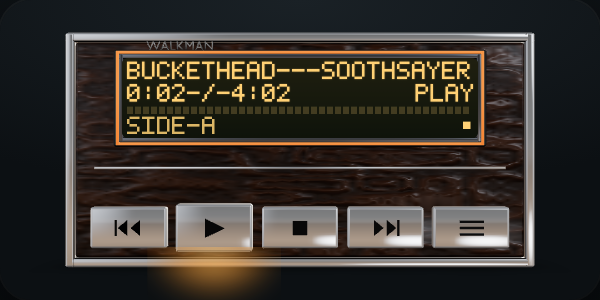
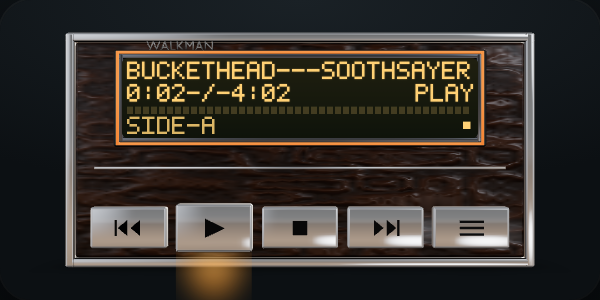
docs: walkman v2.1 — light anchored to the 3D key seam
- A2c: explain why a CSS-box-anchored glow always lands on the key face
  (perspective projects the extruded key larger than its footprint) and how the
  zero-size seam hotspot fixes it; measured anchor 373.3 vs key bottom 373.0,
  zero changed rows above it
- artifacts 24/26 recaptured

Changed region(s): [[0.24, 0.81, 0.48, 1.0]]

diff --git a/documentation/index.html b/documentation/index.html
@@ -258,13 +258,13 @@ figcaption{margin-top:.8rem;font-size:.82rem;color:var(--ink-soft);text-align:ce
       <h1>Documentation</h1>
       <p class="sub"></p>
     </div>
-    <span class="stamp"><span class="freshness lede" data-ts="2026-10-31T03:20:36.196877+00:00"></span>generated 2026-10-31 03:21 UTC · do not edit by hand</span>
+    <span class="stamp"><span class="freshness lede" data-ts="2026-10-31T04:10:51.637572+00:00"></span>generated 2026-10-31 04:11 UTC · do not edit by hand</span>
   </div>
 </header>
 <div class="shell">
   <nav class="toc" aria-label="Contents">
     <h2>Contents</h2>
-    <ol><li class="part" title="How the documentation is organised, what each area holds, and the rules that stop it becoming a pile.">Start Here</li><li><a class="chapter" href="#reading-guide"><span class="num">1</span><span class="title-text">How this documentation is organised</span><span class="status s-ok">verified</span><span class="freshness badge" data-ts="2026-10-23T17:52:15-07:00"></span></a></li><li><a class="sub" href="#the-areas">The areas</a></li><li><a class="sub" href="#page-types-type-in-front-matter">Page types (type: in front matter)</a></li><li><a class="sub" href="#status-words">Status words</a></li><li><a class="sub" href="#rules-that-stop-the-pile">Rules that stop the pile</a></li><li><a class="sub" href="#known-gaps">Known gaps</a></li><li class="part" title="The canvas mini player, its hand-off to music-player, ratings sync, and playback health.">Music player</li><li><a class="chapter" href="#music-swap-live-news-and-news-summaries"><span class="num">2</span><span class="title-text">Music Swap, Song Thumbs, Live News Networks and News Summaries</span><span class="status s-ok">shipped</span><span class="freshness badge" data-ts="2026-10-26T06:19:39-07:00"></span></a></li><li><a class="sub" href="#1-a-new-music-ask-cut-the-music-to-silence-f0bc09f">1. A new music ask cut the music to silence (f0bc09f)</a></li><li><a class="sub" href="#2-thumbs-up-rated-the-artist-not-the-song-4a69f7c">2. Thumbs up rated the artist, not the song (4a69f7c)</a></li><li><a class="sub" href="#3-cnn-live-news-fox-live-news-put-on-fox-news-83e923c-5013a4d">3. &quot;cnn live news&quot; / &quot;fox live news&quot; / &quot;put on fox news&quot; (83e923c, 5013a4d)</a></li><li><a class="sub" href="#4-news-summaries-none-or-only-one-link">4. News summaries: none, or only one link</a></li><li><a class="sub" href="#watchlist">Watchlist</a></li><li><a class="sub" href="#agent-routing-2026-10-16-cleanup">Agent routing (2026-10-16 cleanup)</a></li><li><a class="chapter" href="#music-widget-compact-bento-designs"><span class="num">3</span><span class="title-text">Music widget: compact bento layouts</span><span class="status s-warn">in-progress</span><span class="freshness badge" data-ts="2026-10-31T03:20:36.196877+00:00"></span></a></li><li><a class="sub" href="#the-redundancy">The redundancy</a></li><li><a class="sub" href="#the-compaction-rules">The compaction rules</a></li><li><a class="sub" href="#five-directions">Five directions</a></li><li><a class="sub" href="#half-width-retro-set-300px">Half-width retro set (300px)</a></li><li><a class="sub" href="#side-by-side">Side by side</a></li><li><a class="sub" href="#recommendation">Recommendation</a></li><li><a class="sub" href="#what-would-change-in-code">What would change in code</a></li><li><a class="sub" href="#verification-of-the-mockups">Verification of the mockups</a></li><li><a class="sub" href="#open-questions">Open questions</a></li><li class="part" title="Test-suite health, dependency refreshes, deploy notes.">Ops and quality</li><li><a class="chapter" href="#dependency-security-refresh"><span class="num">4</span><span class="title-text">Dependency security refresh (Python pins)</span><span class="status s-ok">shipped</span><span class="freshness badge" data-ts="2026-10-23T17:52:15-07:00"></span></a></li><li><a class="sub" href="#what-changed">What changed</a></li><li><a class="sub" href="#verification">Verification</a></li><li><a class="sub" href="#resolved-tickets">Resolved tickets</a></li><li><a class="sub" href="#follow-up-venv-was-tracked-in-git">Follow-up: .venv was tracked in git</a></li></ol>
+    <ol><li class="part" title="How the documentation is organised, what each area holds, and the rules that stop it becoming a pile.">Start Here</li><li><a class="chapter" href="#reading-guide"><span class="num">1</span><span class="title-text">How this documentation is organised</span><span class="status s-ok">verified</span><span class="freshness badge" data-ts="2026-10-23T17:52:15-07:00"></span></a></li><li><a class="sub" href="#the-areas">The areas</a></li><li><a class="sub" href="#page-types-type-in-front-matter">Page types (type: in front matter)</a></li><li><a class="sub" href="#status-words">Status words</a></li><li><a class="sub" href="#rules-that-stop-the-pile">Rules that stop the pile</a></li><li><a class="sub" href="#known-gaps">Known gaps</a></li><li class="part" title="The canvas mini player, its hand-off to music-player, ratings sync, and playback health.">Music player</li><li><a class="chapter" href="#music-swap-live-news-and-news-summaries"><span class="num">2</span><span class="title-text">Music Swap, Song Thumbs, Live News Networks and News Summaries</span><span class="status s-ok">shipped</span><span class="freshness badge" data-ts="2026-10-26T06:19:39-07:00"></span></a></li><li><a class="sub" href="#1-a-new-music-ask-cut-the-music-to-silence-f0bc09f">1. A new music ask cut the music to silence (f0bc09f)</a></li><li><a class="sub" href="#2-thumbs-up-rated-the-artist-not-the-song-4a69f7c">2. Thumbs up rated the artist, not the song (4a69f7c)</a></li><li><a class="sub" href="#3-cnn-live-news-fox-live-news-put-on-fox-news-83e923c-5013a4d">3. &quot;cnn live news&quot; / &quot;fox live news&quot; / &quot;put on fox news&quot; (83e923c, 5013a4d)</a></li><li><a class="sub" href="#4-news-summaries-none-or-only-one-link">4. News summaries: none, or only one link</a></li><li><a class="sub" href="#watchlist">Watchlist</a></li><li><a class="sub" href="#agent-routing-2026-10-16-cleanup">Agent routing (2026-10-16 cleanup)</a></li><li><a class="chapter" href="#music-widget-compact-bento-designs"><span class="num">3</span><span class="title-text">Music widget: compact bento layouts</span><span class="status s-warn">in-progress</span><span class="freshness badge" data-ts="2026-10-31T04:10:51.637572+00:00"></span></a></li><li><a class="sub" href="#the-redundancy">The redundancy</a></li><li><a class="sub" href="#the-compaction-rules">The compaction rules</a></li><li><a class="sub" href="#five-directions">Five directions</a></li><li><a class="sub" href="#half-width-retro-set-300px">Half-width retro set (300px)</a></li><li><a class="sub" href="#side-by-side">Side by side</a></li><li><a class="sub" href="#recommendation">Recommendation</a></li><li><a class="sub" href="#what-would-change-in-code">What would change in code</a></li><li><a class="sub" href="#verification-of-the-mockups">Verification of the mockups</a></li><li><a class="sub" href="#open-questions">Open questions</a></li><li class="part" title="Test-suite health, dependency refreshes, deploy notes.">Ops and quality</li><li><a class="chapter" href="#dependency-security-refresh"><span class="num">4</span><span class="title-text">Dependency security refresh (Python pins)</span><span class="status s-ok">shipped</span><span class="freshness badge" data-ts="2026-10-23T17:52:15-07:00"></span></a></li><li><a class="sub" href="#what-changed">What changed</a></li><li><a class="sub" href="#verification">Verification</a></li><li><a class="sub" href="#resolved-tickets">Resolved tickets</a></li><li><a class="sub" href="#follow-up-venv-was-tracked-in-git">Follow-up: .venv was tracked in git</a></li></ol>
   </nav>
   <main><div class="part-divider"><h2>Start Here</h2><p>How the documentation is organised, what each area holds, and the rules that stop it becoming a pile.</p></div>
 <section class="chapter" id="reading-guide"><span class="freshness" data-ts="2026-10-23T17:52:15-07:00"></span><p class="eyebrow">Start Here<span class="sep">·</span>Chapter 1</p><p class="statusbar"><span class="status s-ok">verified</span><span class="meta-pill">updated 2026-10-23</span><span class="meta-pill review" data-review="2026-11-23">review by 2026-11-23</span></p><h1 id="how-this-documentation-is-organised">How this documentation is organised</h1>
@@ -336,7 +336,7 @@ figcaption{margin-top:.8rem;font-size:.82rem;color:var(--ink-soft);text-align:ce
 </ul>
 <h2 id="agent-routing-2026-10-16-cleanup">Agent routing (2026-10-16 cleanup)</h2>
 <p>Every agent path already targeted lazy-agent-service (<code>LAZY_AGENT_URL</code>, :5591) since the 2026-10-15 prism exit. This wave removed the last stale "prism" references (comments, log strings, the <code>if True:</code> prism-mode wrapper in <code>app/routes/message.py</code>) and made the health probes (<code>/health/app</code> → <code>_agent_dependency_status</code> and <code>GET /models</code>) send the same <code>x-project</code> / <code>x-username</code> attribution headers as the <code>/agent</code> call, so the gateway no longer logs html-notes' ~2/min probes as <code>default/anonymous</code>.</p></section>
-<section class="chapter" id="music-widget-compact-bento-designs"><span class="freshness" data-ts="2026-10-31T03:20:36.196877+00:00"></span><p class="eyebrow">Music player<span class="sep">·</span>Chapter 3</p><p class="statusbar"><span class="status s-warn">in-progress</span><span class="meta-pill">updated 2026-10-30</span><span class="meta-pill review" data-review="2026-11-28">review by 2026-11-28</span></p><h1 id="music-widget-compact-bento-layouts">Music widget: compact bento layouts</h1>
+<section class="chapter" id="music-widget-compact-bento-designs"><span class="freshness" data-ts="2026-10-31T04:10:51.637572+00:00"></span><p class="eyebrow">Music player<span class="sep">·</span>Chapter 3</p><p class="statusbar"><span class="status s-warn">in-progress</span><span class="meta-pill">updated 2026-10-30</span><span class="meta-pill review" data-review="2026-11-28">review by 2026-11-28</span></p><h1 id="music-widget-compact-bento-layouts">Music widget: compact bento layouts</h1>
 <p><strong>2026-10-29.</strong> The canvas mini player (<code>render_mini_music_player</code> in <code>app/widgets/factory.py</code>, with a hand-maintained twin in <code>app/static/index.js</code>) prints the same artist <strong>three times</strong> for an ordinary artist ask, and the card is pinned to a fixed 184px that doubles to 384px when the queue opens. This chapter records the redundancy, the compaction rules, five full-width visual directions, a four-layout <strong>half-width retro set (300px)</strong>, and a Walkman whose key row is a real Blender-built glTF asset.</p>
 <p>The live, interactive mockups (playing / long title / queue open / narrow 300px, all clickable) are at <strong>http://10.0.0.171:8910/static/music-player-designs.html</strong> — open that page to judge the designs; this chapter is the written record and the comparison.</p>
 <p>Nothing in the widget has been changed yet. The five layouts are mockups only.</p>
@@ -540,15 +540,15 @@ addEventListener('message', e =&gt; {
 rows: 7s title · 2s · 7s time/state · 2s · 3s bar · 1s · 7s strip = 29s</code></pre></div>
 <p>At the 300 px card that is <strong>s = 5</strong>, a 8.75 CSS px cap — about 20% smaller than the old 11 px, and the whole title fits with 5 px to spare. At 620 it is <strong>s = 8</strong> (14 px cap) and the text fills 85% of the glass. Ellipsis only appears past roughly 58 characters; nothing scrolls.</p>
 <p><strong>Selection.</strong> A key stays lit until another is pressed: <code>play</code> is lit while playing and clears on pause or stop, <code>stop</code> clears everything, <code>prev</code>/<code>next</code> stay selected as the last-used control, <code>queue</code> is lit while the queue is open. <code>aria-pressed</code> mirrors the state.</p>
-<p><strong>The light sits under the key, not on it.</strong> An analogue membrane key is lit from behind: the light pools on the panel below the key and escapes at the seam. The glow is a band anchored at <code>top: 100%</code> of the button, a radial that starts at full amber <code>rgba(255,214,132,1)</code> on the key's bottom edge and fades out 80% of the way down, blurred and then <strong>clipped</strong> with <code>clip-path: inset(0 0 -120% 0)</code> so no blur can bleed upward onto the key face. It fades in over 280 ms; nothing pulses.</p>
-<p>The band has to start exactly at the key's bottom edge, so the hotspot is no longer a fixed 30 × 16 CSS box: model-viewer keeps hotspot CSS sizes fixed while the 3D key grows with the model, which at a large window left the light starting <em>inside</em> the key face. <code>syncScreen()</code> now sizes each hotspot from the projected scale — the keys are 0.048 × 0.026 m (play 0.030 tall) — and passes the height to the glow as <code>--key-h</code>, so the band, its blur and its inset all scale with the device. At the 300 px card that is 38 × 21 px per key, exactly the drawn key.</p>
-<p>Measured at 300 × 150: 76 of 3 648 px changed on the key face (max Δ37, and red-minus-blue unchanged at 12 → 13 — that is the seam, not light on the face), 0 above, and 6 511 of 7 072 px changed under it (max Δ138, red-minus-blue 0 → 34).</p>
+<p><strong>The light sits under the key, not on it.</strong> An analogue membrane key is lit from behind: the light pools on the panel below the key and escapes at the seam. Sizing the glow from the button's own box cannot do that, because the button box is a flat CSS rectangle while the key is an extruded mesh 9–11 mm toward the camera. Perspective makes the drawn key project <strong>larger</strong> than its footprint, so the box's bottom edge sits 2–4 px <em>above</em> the drawn key's bottom edge — and any glow anchored there paints over the key face. That is exactly what the first two attempts did.</p>
+<p>The fix is to stop guessing and let model-viewer do the projection. Each key now has a second, zero-size hotspot placed on the key's <strong>bottom front edge in 3D</strong> (<code>y −0.062</code>, <code>z 0.021</code>; play <code>−0.064 / 0.023</code>), so its screen position <em>is</em> the drawn key's bottom edge at any orbit or zoom. The lamp is an <code>&lt;i&gt;</code> inside that hotspot: a radial that starts at full amber <code>rgba(255,214,132,1)</code> and fades out 80% of the way down, blurred by 0.28 × the key height, inside <code>overflow: hidden</code> — so the blur is cut exactly at the seam and cannot reach the key face. It fades in over 280 ms; nothing pulses.</p>
+<p>Measured on 900 × 600 captures (2× DPR): the anchor lands at y 373.3 and the drawn key's bottom edge at 372.8–373.0 — within half a pixel. Row by row, the glow starts at the anchor row and <strong>every row above it is unchanged</strong> (0 changed pixels across the key face and the panel above it), with 4 557 px changed below it (max Δ238, red-minus-blue 0 → 64). The same check on the demo page: anchor 248.6, first changed row 248, nothing above.</p>
 <p><img src="artifacts/music-widget-designs/24-walkman-player-300.png" alt="The card at 300 × 150, play lit from under the key"></p>
 <p><img src="artifacts/music-widget-designs/25-walkman-player-620.png" alt="The same card at 620 × 340"></p>
 <p><img src="artifacts/music-widget-designs/26-walkman-player-glow.png" alt="Key row: nothing lit, then play lit from underneath two seconds later"></p>
 <p><img src="artifacts/music-widget-designs/27-walkman-player-sandbox.png" alt="Still working inside a sandboxed cross-origin iframe"></p>
 <p>Measured:</p>
-<div class="scroll-x"><table><thead><tr><th>Check</th><th>Result</th></tr></thead><tbody><tr><td>Title ink bbox, 300 px card</td><td>x 10–694 of 712 backing px — 5 px margin right, 2.5 CSS px</td></tr><tr><td>Same bbox over 60 frames</td><td>one distinct value; identical after 5 clicks</td></tr><tr><td>Glyphs touching the glass border</td><td>0 columns, 0 rows of border ink</td></tr><tr><td>LCD opacity</td><td><code>1</code> (was <code>0.25</code>)</td></tr><tr><td>Camera after an 80 px drag</td><td>theta 0, phi 1.5708, radius 0.55 — unchanged</td></tr><tr><td>Glow after 2 s</td><td>6 511 of 7 072 px changed in the band under the key, max Δ138, red-minus-blue 0 → 34</td></tr><tr><td>Glow on the key face</td><td>76 px of 3 648 (the antialiased seam), red-minus-blue 12 → 13</td></tr><tr><td>Glow above the key</td><td>0 changed pixels</td></tr><tr><td>Sandboxed iframe</td><td>renders, 2 997 amber px, LCD at full brightness</td></tr><tr><td>Asset</td><td><code>player-body-v2-lite.glb</code> — same geometry and materials at 0.224 m glass, maps at 512 × 256, <strong>892 KB</strong> (was 2.95 MB)</td></tr></tbody></table></div>
+<div class="scroll-x"><table><thead><tr><th>Check</th><th>Result</th></tr></thead><tbody><tr><td>Title ink bbox, 300 px card</td><td>x 10–694 of 712 backing px — 5 px margin right, 2.5 CSS px</td></tr><tr><td>Same bbox over 60 frames</td><td>one distinct value; identical after 5 clicks</td></tr><tr><td>Glyphs touching the glass border</td><td>0 columns, 0 rows of border ink</td></tr><tr><td>LCD opacity</td><td><code>1</code> (was <code>0.25</code>)</td></tr><tr><td>Camera after an 80 px drag</td><td>theta 0, phi 1.5708, radius 0.55 — unchanged</td></tr><tr><td>Glow anchor vs drawn key bottom</td><td>373.3 vs 372.8–373.0 px (half a pixel)</td></tr><tr><td>Glow above the anchor (key face and panel)</td><td><strong>0</strong> changed pixels, row by row</td></tr><tr><td>Glow below the anchor</td><td>4 557 px changed, max Δ238, red-minus-blue 0 → 64</td></tr><tr><td>Demo page, same check</td><td>anchor 248.6, first changed row 248, nothing above</td></tr><tr><td>Sandboxed iframe</td><td>renders, 2 997 amber px, LCD at full brightness</td></tr><tr><td>Asset</td><td><code>player-body-v2-lite.glb</code> — same geometry and materials at 0.224 m glass, maps at 512 × 256, <strong>892 KB</strong> (was 2.95 MB)</td></tr></tbody></table></div>
 <p>The same layout, hotspot sizing and glow code runs in <code>walkman-3d.html</code>, so the demo page and the embeddable card cannot drift apart.</p>
 <p><strong>Opening the card directly shows it at widget size.</strong> <code>walkman-player.html</code> fills its container when embedded, but when it is the top-level page it adds <code>html.standalone</code> and pins the card to <strong>300 × 150</strong> in the middle of the window, with a caption saying so. Before that, opening it in a full window blew the device up to 1280 × 640 — every pixel re-rendered at 4× the size, which is where the lag came from, and the fixed-size hotspots no longer lined up with the giant keys.</p>
 <h3 id="a3-pixel-forest-150px-the-device-grown-into-a-tree">A3 · Pixel forest — 150px, the device grown into a tree</h3>

diff --git a/documentation/chapters/music-widget-compact-bento-designs.md b/documentation/chapters/music-widget-compact-bento-designs.md
@@ -479,25 +479,28 @@ stay selected as the last-used control, `queue` is lit while the queue is open.
 
 **The light sits under the key, not on it.** An analogue membrane key is lit
 from behind: the light pools on the panel below the key and escapes at the
-seam. The glow is a band anchored at `top: 100%` of the button, a radial that
-starts at full amber `rgba(255,214,132,1)` on the key's bottom edge and fades
-out 80% of the way down, blurred and then **clipped** with
-`clip-path: inset(0 0 -120% 0)` so no blur can bleed upward onto the key face.
-It fades in over 280 ms; nothing pulses.
+seam. Sizing the glow from the button's own box cannot do that, because the
+button box is a flat CSS rectangle while the key is an extruded mesh 9–11 mm
+toward the camera. Perspective makes the drawn key project **larger** than its
+footprint, so the box's bottom edge sits 2–4 px *above* the drawn key's bottom
+edge — and any glow anchored there paints over the key face. That is exactly
+what the first two attempts did.
 
-The band has to start exactly at the key's bottom edge, so the hotspot is no
-longer a fixed 30 × 16 CSS box: model-viewer keeps hotspot CSS sizes fixed
-while the 3D key grows with the model, which at a large window left the light
-starting *inside* the key face. `syncScreen()` now sizes each hotspot from the
-projected scale — the keys are 0.048 × 0.026 m (play 0.030 tall) — and passes
-the height to the glow as `--key-h`, so the band, its blur and its inset all
-scale with the device. At the 300 px card that is 38 × 21 px per key, exactly
-the drawn key.
+The fix is to stop guessing and let model-viewer do the projection. Each key
+now has a second, zero-size hotspot placed on the key's **bottom front edge in
+3D** (`y −0.062`, `z 0.021`; play `−0.064 / 0.023`), so its screen position *is*
+the drawn key's bottom edge at any orbit or zoom. The lamp is an `<i>` inside
+that hotspot: a radial that starts at full amber `rgba(255,214,132,1)` and fades
+out 80% of the way down, blurred by 0.28 × the key height, inside
+`overflow: hidden` — so the blur is cut exactly at the seam and cannot reach the
+key face. It fades in over 280 ms; nothing pulses.
 
-Measured at 300 × 150: 76 of 3 648 px changed on the key face (max Δ37, and
-red-minus-blue unchanged at 12 → 13 — that is the seam, not light on the
-face), 0 above, and 6 511 of 7 072 px changed under it (max Δ138,
-red-minus-blue 0 → 34).
+Measured on 900 × 600 captures (2× DPR): the anchor lands at y 373.3 and the
+drawn key's bottom edge at 372.8–373.0 — within half a pixel. Row by row, the
+glow starts at the anchor row and **every row above it is unchanged** (0
+changed pixels across the key face and the panel above it), with 4 557 px
+changed below it (max Δ238, red-minus-blue 0 → 64). The same check on the demo
+page: anchor 248.6, first changed row 248, nothing above.
 
 ![The card at 300 × 150, play lit from under the key](artifacts/music-widget-designs/24-walkman-player-300.png)
 
@@ -516,9 +519,10 @@ Measured:
 | Glyphs touching the glass border | 0 columns, 0 rows of border ink |
 | LCD opacity | `1` (was `0.25`) |
 | Camera after an 80 px drag | theta 0, phi 1.5708, radius 0.55 — unchanged |
-| Glow after 2 s | 6 511 of 7 072 px changed in the band under the key, max Δ138, red-minus-blue 0 → 34 |
-| Glow on the key face | 76 px of 3 648 (the antialiased seam), red-minus-blue 12 → 13 |
-| Glow above the key | 0 changed pixels |
+| Glow anchor vs drawn key bottom | 373.3 vs 372.8–373.0 px (half a pixel) |
+| Glow above the anchor (key face and panel) | **0** changed pixels, row by row |
+| Glow below the anchor | 4 557 px changed, max Δ238, red-minus-blue 0 → 64 |
+| Demo page, same check | anchor 248.6, first changed row 248, nothing above |
 | Sandboxed iframe | renders, 2 997 amber px, LCD at full brightness |
 | Asset | `player-body-v2-lite.glb` — same geometry and materials at 0.224 m glass, maps at 512 × 256, **892 KB** (was 2.95 MB) |
 
